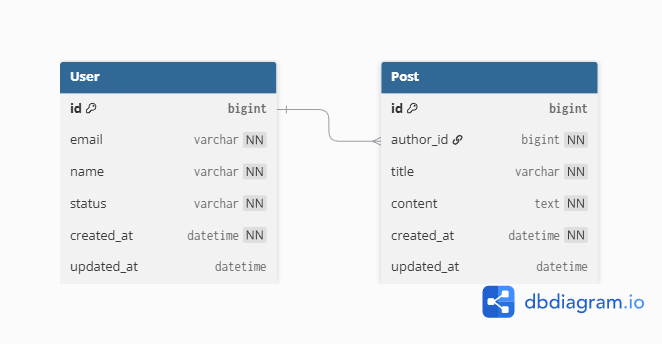
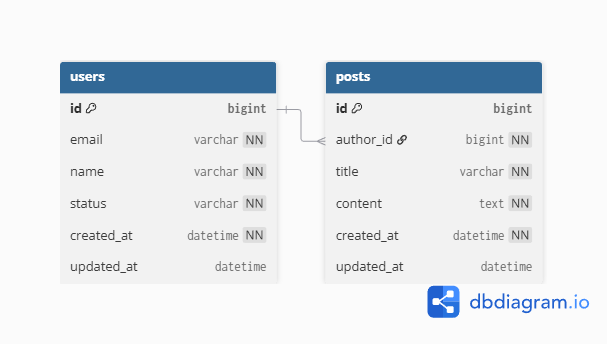
ERD수정 및 API 명세서 작성

diff --git a/docs/api-spec.md b/docs/api-spec.md
@@ -1,0 +1,337 @@
+# 📚 REST API 명세서
+
+본 문서는 **기존 운영 중인 Spring Boot 기반 REST API 서비스**의  
+엔드포인트 구조와 요청/응답 스펙을 **실제 코드 분석을 기반으로** 정리한 문서입니다.
+
+본 프로젝트는 신규 기능 개발이 아닌,  
+**기존 코드에 합류한 신입 백엔드 개발자 관점에서 서비스 구조를 이해하고 문서화하는 것**을 목표로 하고 있습니다.
+
+현재 단계에서는 **Post(게시글) 도메인 중심의 핵심 API**를 우선적으로 문서화하였으며,  
+향후 유지보수 및 배포 단계에서 Swagger(OpenAPI) 적용을 고려하고 있습니다.
+
+---
+
+## 🔧 공통 사항
+
+- Base URL: `/api`
+- Content-Type: `application/json`
+- 인증/인가: 현재 코드 기준 별도 인증 처리 없음
+
+---
+
+## 📝 게시글(Post) API
+
+### 1⃣ 게시글 생성
+
+게시글을 생성합니다.
+
+**URL**
+```
+
+/api/posts
+
+```
+
+**Method**
+```
+
+POST
+
+````
+
+---
+
+### Request Body
+
+```json
+{
+  "userId": 1,
+  "title": "게시글 제목",
+  "content": "게시글 내용"
+}
+````
+
+| 필드명     | 타입     | 필수 | 설명              |
+| ------- | ------ | -- | --------------- |
+| userId  | Long   | O  | 작성자 사용자 ID      |
+| title   | String | O  | 게시글 제목 (1~100자) |
+| content | String | O  | 게시글 내용          |
+
+---
+
+### 처리 흐름 요약
+
+* 요청으로 전달된 사용자 ID로 작성자(User) 조회
+* 게시글(Post) 엔티티 생성
+* 게시글 저장 후 응답 DTO 반환
+
+---
+
+### Success Response
+
+```
+HTTP/1.1 200 OK
+Content-Type: application/json
+```
+
+```json
+{
+  "id": 1,
+  "authorId": 1,
+  "author": "작성자 이름",
+  "title": "게시글 제목",
+  "content": "게시글 내용",
+  "createdAt": "2024-01-01T12:00:00",
+  "updatedAt": "2024-01-01T12:00:00"
+}
+```
+
+---
+
+### 2⃣ 게시글 단건 조회
+
+게시글을 단건 조회합니다.
+
+**URL**
+
+```
+/api/posts/{id}
+```
+
+**Method**
+
+```
+GET
+```
+
+---
+
+### Path Variable
+
+| 이름 | 타입   | 설명     |
+| -- | ---- | ------ |
+| id | Long | 게시글 ID |
+
+---
+
+### 처리 흐름 요약
+
+* 게시글 ID로 게시글 조회
+* 존재하지 않을 경우 예외 발생
+
+---
+
+### Success Response
+
+```
+HTTP/1.1 200 OK
+```
+
+```json
+{
+  "id": 1,
+  "authorId": 1,
+  "author": "작성자 이름",
+  "title": "게시글 제목",
+  "content": "게시글 내용",
+  "createdAt": "2024-01-01T12:00:00",
+  "updatedAt": "2024-01-01T12:00:00"
+}
+```
+
+---
+
+### 3⃣ 게시글 목록 조회
+
+전체 게시글 목록을 조회합니다.
+
+**URL**
+
+```
+/api/posts
+```
+
+**Method**
+
+```
+GET
+```
+
+---
+
+### 처리 흐름 요약
+
+* 게시글 전체 조회
+* 각 게시글을 Response DTO로 변환하여 반환
+
+---
+
+### Success Response
+
+```
+HTTP/1.1 200 OK
+```
+
+```json
+[
+  {
+    "id": 1,
+    "authorId": 1,
+    "author": "작성자 이름",
+    "title": "게시글 제목",
+    "content": "게시글 내용",
+    "createdAt": "2024-01-01T12:00:00",
+    "updatedAt": "2024-01-01T12:00:00"
+  }
+]
+```
+
+---
+
+### 4⃣ 게시글 수정
+
+게시글을 수정합니다.
+**작성자 본인만 수정 가능합니다.**
+
+**URL**
+
+```
+/api/posts/{id}
+```
+
+**Method**
+
+```
+PUT
+```
+
+---
+
+### Request Body
+
+```json
+{
+  "userId": 1,
+  "title": "수정된 제목",
+  "content": "수정된 내용"
+}
+```
+
+---
+
+### 처리 흐름 요약
+
+* 게시글 조회
+* 요청 사용자와 작성자 일치 여부 검증
+* 게시글 제목 및 내용 수정
+
+---
+
+### Success Response
+
+```
+HTTP/1.1 200 OK
+```
+
+```json
+{
+  "id": 1,
+  "authorId": 1,
+  "author": "작성자 이름",
+  "title": "수정된 제목",
+  "content": "수정된 내용",
+  "createdAt": "2024-01-01T12:00:00",
+  "updatedAt": "2024-01-02T09:00:00"
+}
+```
+
+---
+
+### 5⃣ 게시글 삭제
+
+게시글을 삭제합니다.
+**작성자 본인만 삭제 가능합니다.**
+
+**URL**
+
+```
+/api/posts/{id}
+```
+
+**Method**
+
+```
+DELETE
+```
+
+---
+
+### Query Parameter
+
+| 이름     | 타입   | 설명        |
+| ------ | ---- | --------- |
+| userId | Long | 요청 사용자 ID |
+
+---
+
+### 처리 흐름 요약
+
+* 게시글 조회
+* 요청 사용자와 작성자 일치 여부 검증
+* 게시글 삭제
+
+---
+
+### Success Response
+
+```
+HTTP/1.1 200 OK
+```
+
+```json
+{}
+```
+
+---
+
+## ❗ 에러 응답 (코드 분석 기반)
+
+본 서비스는 현재 전역 예외 처리(`@ControllerAdvice`)가 적용되어 있지 않아,  
+에러 응답은 **실제 코드 분석을 기반으로 한 논리적 분류**입니다.
+
+### 에러 유형
+
+- **400 Bad Request**
+  - 요청 값이 유효하지 않은 경우
+  - 요청 데이터로 처리할 수 없는 상태인 경우
+
+- **403 Forbidden**
+  - 게시글 작성자가 아닌 사용자가 수정 또는 삭제를 시도한 경우
+
+- **404 Not Found**
+  - 존재하지 않는 게시글을 조회/수정/삭제하려는 경우
+  - 존재하지 않는 사용자 ID로 요청한 경우
+
+> ※ **401 Unauthorized**는 현재 인증/인가 기능이 구현되어 있지 않아  
+> 실제로 사용되지 않으며, 추후 인증 기능 도입 시 적용될 수 있습니다.
+
+---
+
+### 참고 사항
+
+- 실제 HTTP 상태 코드는 전역 예외 처리 구현 여부에 따라 달라질 수 있습니다.
+- 현재 단계에서는 예외 발생 지점과 비즈니스 로직을 기준으로 에러를 분류하였습니다.
+
+
+---
+
+## 📎 참고 사항
+
+* 본 API 명세는 **실제 Controller / Service / DTO 코드를 분석하여 수동 작성**되었습니다.
+* 자동 문서화 도구(Swagger)는 추후 배포 단계에서 적용을 고려하고 있습니다.
+* 시퀀스 다이어그램은 `docs/sequence-*.puml` 파일로 별도 관리합니다.
+* Postman을 통해 주요 API 동작을 직접 검증했습니다.
+
+본 문서는 서비스 분석 및 환경 설정 단계 산출물이며,
+이후 예외 처리, 테스트 코드, 성능 이슈를 개선할 예정입니다.
+

diff --git a/docs/erd.md b/docs/erd.md
@@ -1,10 +1,30 @@
-## ERD
+## 🗂 ERD (Entity Relationship Diagram)
 
-본 ERD는 JPA Entity(User, Post)를 기준으로 테이블 구조를 도출하였으며,
-User(1) : Post(N) 관계를 기반으로 게시글 작성자를 관리하도록 설계되었습니다.
+본 ERD는 **JPA Entity(User, Post)** 를 기준으로  
+실제 데이터베이스 테이블 구조를 도출하여 작성되었습니다.
 
-- User는 다수의 Post를 작성할 수 있습니다.
-- Post는 반드시 하나의 User(작성자)를 참조합니다.
-- 주요 컬럼에 NOT NULL 제약조건을 적용하여 데이터 무결성을 보장합니다.
+### 📌 테이블 구성
+
+- `users`
+- `posts`
+
+### 📌 관계 설명
+
+- **users (1) : posts (N)**
+  - 한 명의 사용자는 여러 개의 게시글을 작성할 수 있습니다.
+  - 하나의 게시글은 반드시 한 명의 사용자(작성자)를 참조합니다.
+
+### 📌 설계 기준
+
+- `posts.author_id`는 `users.id`를 참조하는 **외래 키(FK)** 입니다.
+- 게시글은 반드시 작성자가 존재해야 하므로 `author_id`는 **NOT NULL** 입니다.
+- 주요 컬럼(`email`, `name`, `title`, `content`, `status`)에는  
+  **NOT NULL 제약조건**을 적용하여 데이터 무결성을 보장합니다.
+- 사용자 상태(`status`)는 Enum(`ACTIVE`, `RESIGNED`) 기반으로 관리됩니다.
+
+### 📌 ERD 다이어그램
 
 ![ERD](./erd.png)
+
+> 본 ERD는 서비스 분석 및 환경 설정 단계의 산출물이며,  
+> 이후 기능 확장 시 테이블 및 관계가 추가될 수 있습니다.
